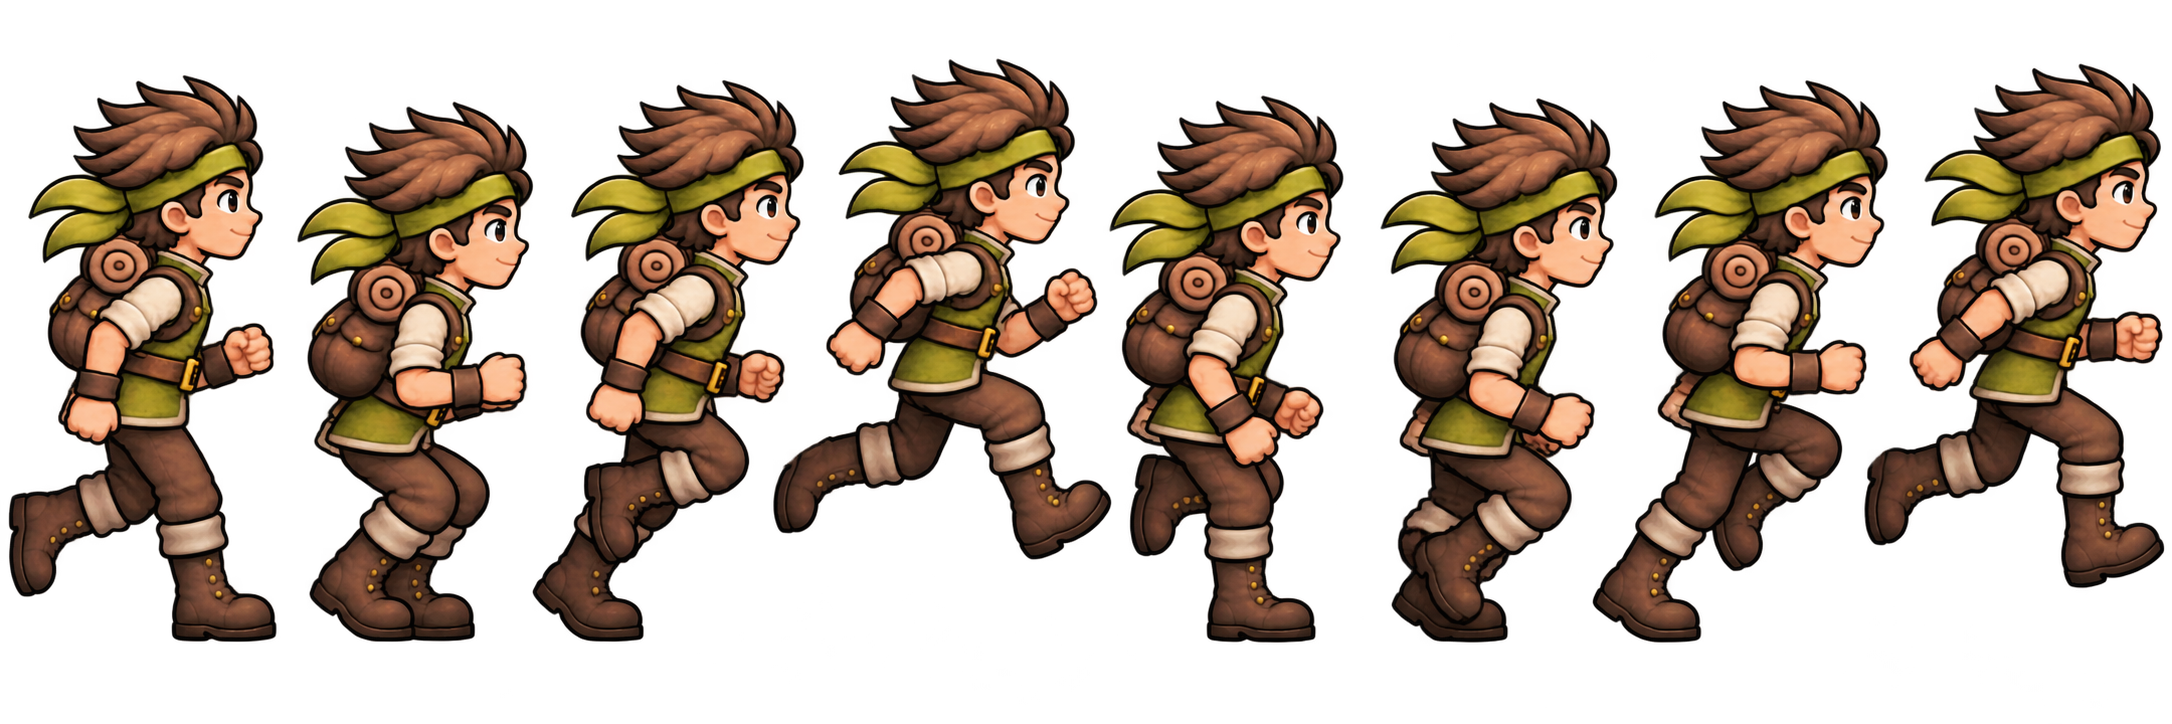
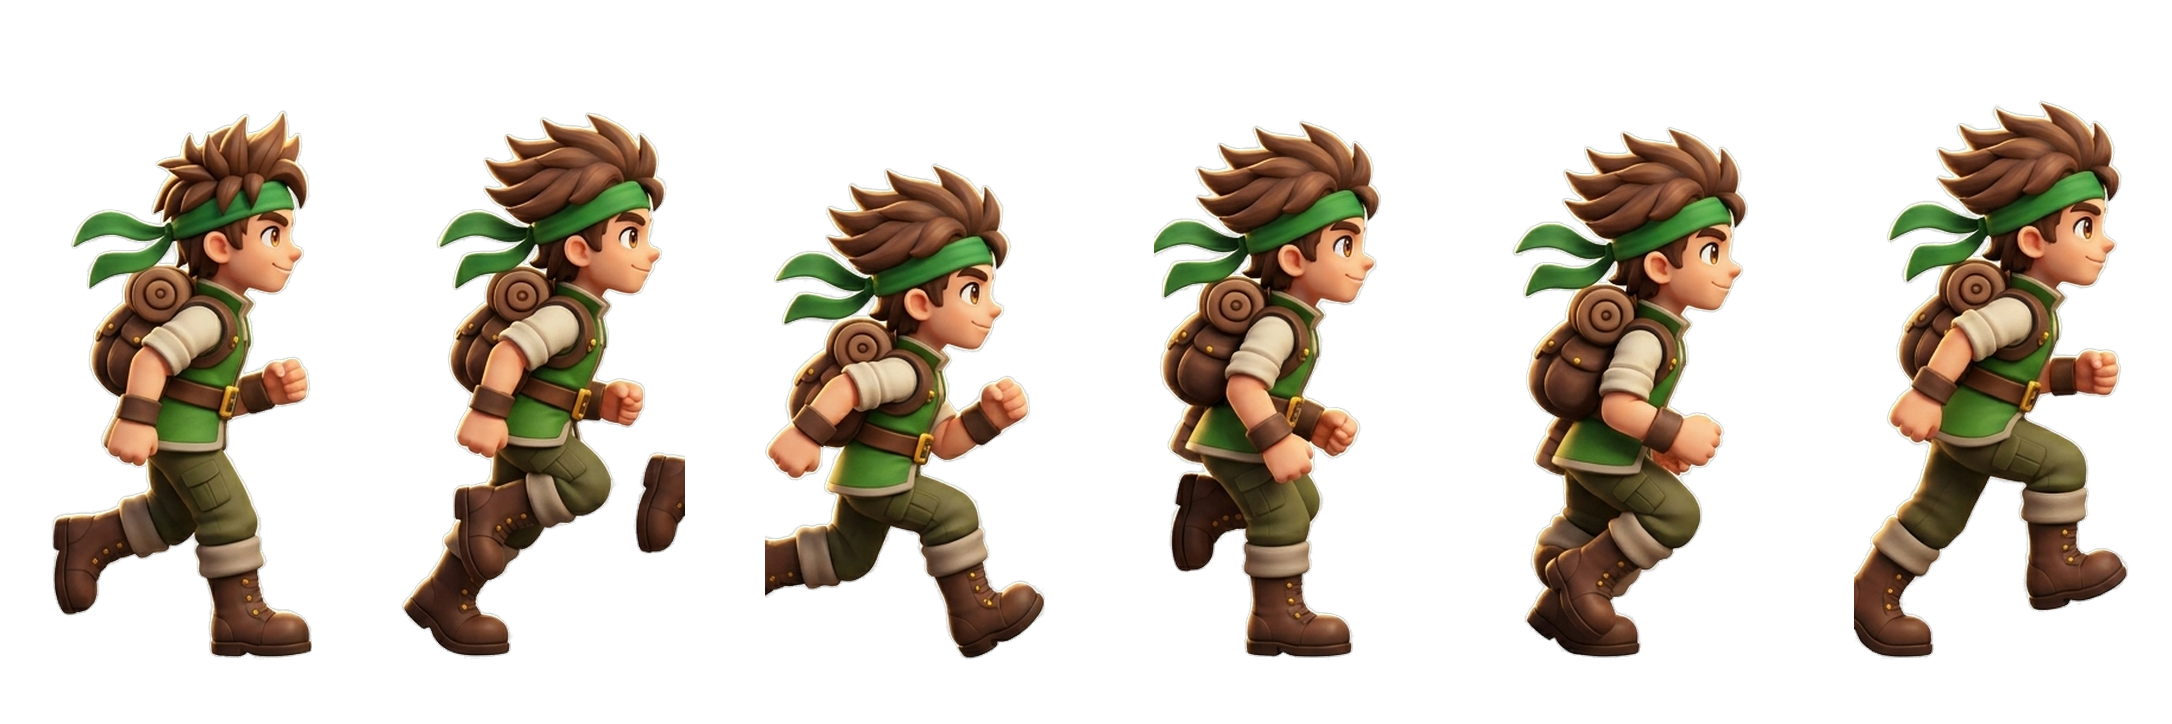
feat(talon): upgrade Talon idle and run animations to 3D CGI pre-rendered style with volumetric lighting

diff --git a/game.js b/game.js
@@ -16,9 +16,9 @@ const cocoSheet = new Image();
 const cocoPiratasSheet = new Image();
 const slingSheet = new Image();
 bg.src = 'assets/nivel_tropical_extendido_v2.png?v=3';
-sheet.src = 'assets/explorador_caminar_master_v1.webp';
-runSheet.src = 'assets/explorador_correr_master_v1.webp';
-idleSheet.src = 'assets/explorador_idle_master_v1.webp';
+sheet.src = 'assets/explorador_correr_master_v1.webp?v=3';
+runSheet.src = 'assets/explorador_correr_master_v1.webp?v=3';
+idleSheet.src = 'assets/explorador_idle_master_v1.webp?v=3';
 crouchSheet.src = 'assets/explorador_agacharse_master_v1.png';
 jumpSheet.src = 'assets/explorador_salto_master_v1.webp';
 doubleJumpSheet.src = 'assets/explorador_doble_salto_master_v1.png?v=2';
@@ -1028,7 +1028,7 @@ function update(dt){
     }
   }
 
-  if(Math.abs(player.vx)>0 && player.onGround){ player.anim+=dt*(running?14:9); player.frame=Math.floor(player.anim)%8; }
+  if(Math.abs(player.vx)>0 && player.onGround){ player.anim+=dt*(running?13:8); player.frame=Math.floor(player.anim)%6; }
   else if(player.onGround){ player.anim+=dt*5; player.frame=Math.floor(player.anim)%6; }
   else { player.anim=0; player.frame=0; }
   if(player.doubleJumpTime>0)player.doubleJumpTime+=dt;
@@ -1258,11 +1258,10 @@ function drawResortera(ctx, isAiming, progress, isCrouching, aimAngle = 0){
 }
 
 const FRAMES = {
-  idle:   { scale: 124/624, list: [{x:38,w:275,cx:142,fy:680},{x:399,w:277,cx:143,fy:680},{x:761,w:281,cx:145,fy:680},{x:1120,w:275,cx:142,fy:680},{x:1482,w:273,cx:142,fy:680},{x:1846,w:275,cx:140,fy:680}] },
+  idle:   { scale: 124/560, list: [{"x": 70, "w": 223, "cx": 111, "fy": 660}, {"x": 442, "w": 203, "cx": 101, "fy": 660}, {"x": 811, "w": 189, "cx": 94, "fy": 660}, {"x": 1172, "w": 190, "cx": 95, "fy": 660}, {"x": 1531, "w": 197, "cx": 98, "fy": 660}, {"x": 1887, "w": 209, "cx": 104, "fy": 660}] },
   crouch: { scale: 124/380, list: [{x:27,w:187,cx:101,fy:577},{x:264,w:175,cx:92,fy:578},{x:487,w:170,cx:92,fy:577},{x:712,w:177,cx:91,fy:575},{x:943,w:175,cx:90,fy:576},{x:1166,w:176,cx:89,fy:576}] },
-  walk:   { scale: 124/586, list: [{x:0,w:281,cx:135,fy:652},{x:278,w:235,cx:131,fy:652},{x:554,w:233,cx:127,fy:652},{x:825,w:267,cx:127,fy:652},{x:1089,w:287,cx:136,fy:652},{x:1372,w:245,cx:124,fy:652},{x:1640,w:239,cx:126,fy:652},{x:1912,w:260,cx:126,fy:652}] },
-  // Los anchos terminan antes del siguiente fotograma para evitar que se filtre su dibujo.
-  run:    { scale: 124/564, list: [{x:6,w:285,cx:139,fy:642},{x:295,w:232,cx:121,fy:642},{x:531,w:288,cx:154,fy:642},{x:823,w:283,cx:135,fy:642},{x:1110,w:264,cx:112,fy:642},{x:1378,w:234,cx:119,fy:642},{x:1616,w:286,cx:150,fy:642},{x:1906,w:258,cx:128,fy:642}] },
+  walk:   { scale: 124/545, list: [{"x": 51, "w": 261, "cx": 130, "fy": 660}, {"x": 401, "w": 284, "cx": 142, "fy": 660}, {"x": 765, "w": 280, "cx": 140, "fy": 660}, {"x": 1154, "w": 227, "cx": 113, "fy": 660}, {"x": 1510, "w": 238, "cx": 119, "fy": 660}, {"x": 1854, "w": 275, "cx": 137, "fy": 660}] },
+  run:    { scale: 124/545, list: [{"x": 51, "w": 261, "cx": 130, "fy": 660}, {"x": 401, "w": 284, "cx": 142, "fy": 660}, {"x": 765, "w": 280, "cx": 140, "fy": 660}, {"x": 1154, "w": 227, "cx": 113, "fy": 660}, {"x": 1510, "w": 238, "cx": 119, "fy": 660}, {"x": 1854, "w": 275, "cx": 137, "fy": 660}] },
   jump:   { scale: 124/540, list: [{x:30,w:259,cx:130,fy:662},{x:312,w:225,cx:110,fy:662},{x:535,w:275,cx:145,fy:662},{x:826,w:269,cx:127,fy:662},{x:1097,w:259,cx:130,fy:662},{x:1382,w:233,cx:115,fy:662},{x:1646,w:241,cx:124,fy:662},{x:1910,w:231,cx:120,fy:662}] },
   doubleJump: {
     scale: 124 / 459,
